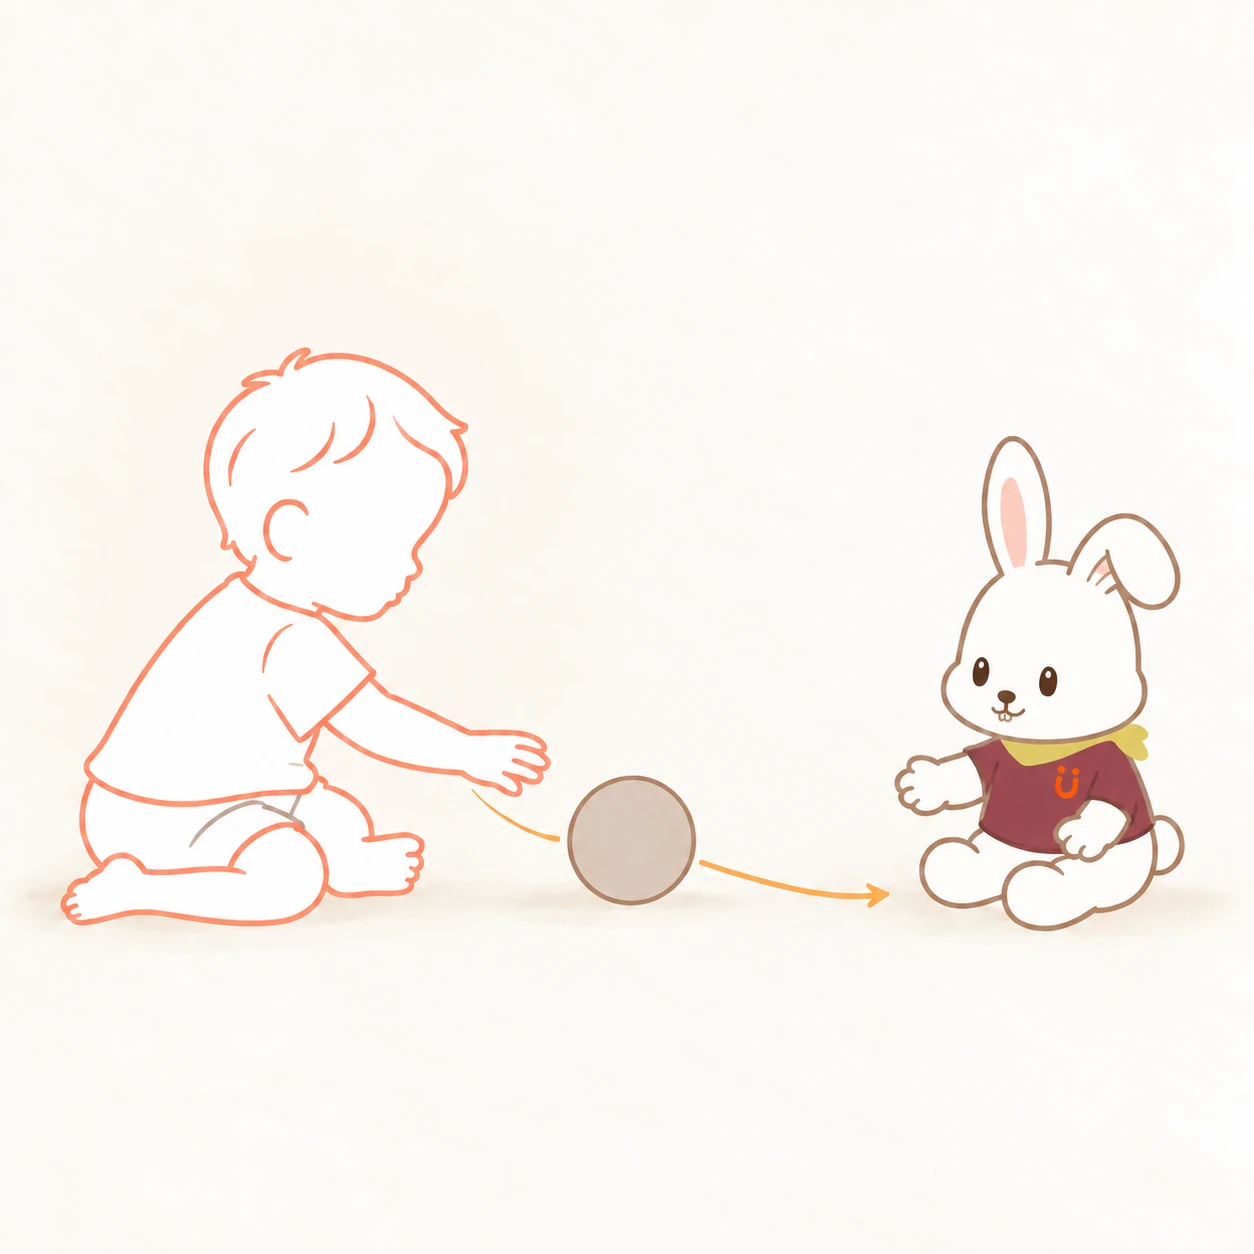
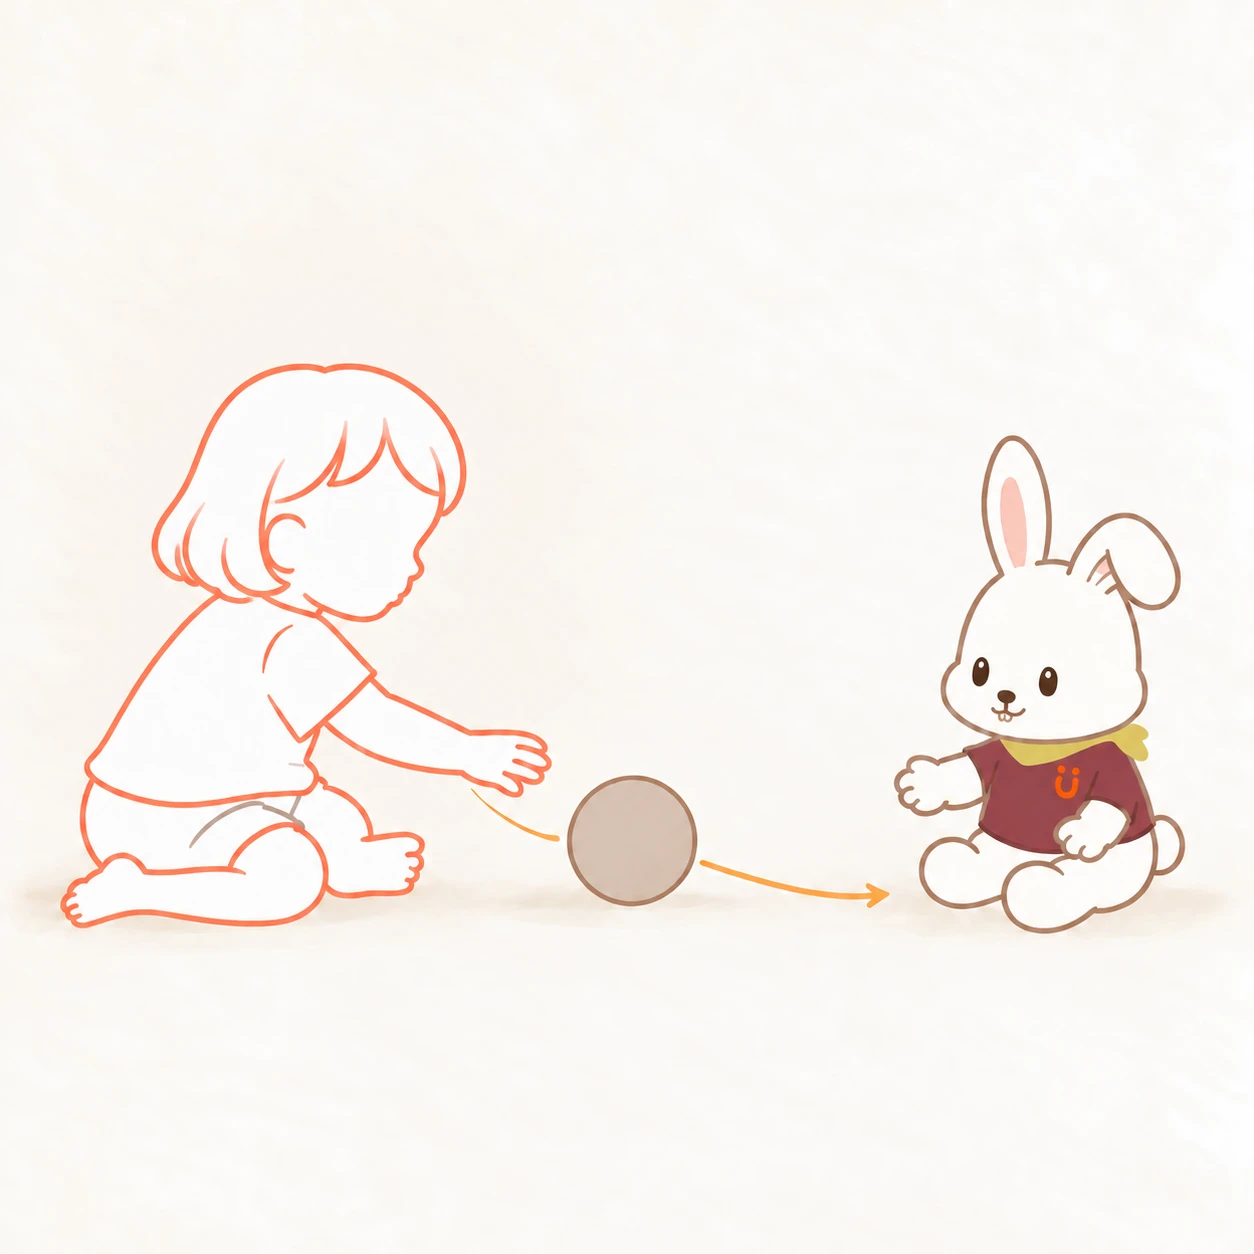
Sync revised Gen story illustrations

diff --git a/stories/hello-gen/index.html b/stories/hello-gen/index.html
@@ -4,19 +4,19 @@
 <section class="panel cover" id="cover" data-step="0"><div class="copy"><p class="eyebrow">HUGMAP · はじめましての絵本</p><h1>こんにちは、<br><em>ゲン</em>です。</h1><p class="lead">きみの「行きたい」、<br>いっしょに。</p><a class="start" href="#scene-hello">絵本をひらく <span>↓</span></a></div><figure><img src="assets/gen-child-leads.webp" alt="行きたい方を指さす子どもと、手をつないで歩くGen" width="1254" height="1254" fetchpriority="high"></figure></section>
 <section class="panel scene " id="scene-hello" data-step="1">
 <div class="copy"><p class="eyebrow" aria-label="1ページ">01</p><h2>からだを 動かして、<br>あそぶのが だいすき。</h2><p class="story-text">ころころ、ボールが きた！<br>きみと あそぶと、ぼくも わくわく。<br><br>「やってみたい」を 見つけると、<br>つい、はりきっちゃう。</p></div>
-<figure class="bubble-art "><span class="bubble speech" role="note" aria-label="ゲンの声：こんどは、ぼくから！">こんどは、ぼくから！</span><img src="assets/gen-ball-roll.webp" alt="座って子どもから転がってくるボールを迎えるGen" width="1254" height="1254" loading="lazy"></figure><a class="next" href="#scene-stairs" aria-label="次のページへ">↓</a></section>
+<figure class="bubble-art "><span class="bubble speech" role="note" aria-label="ゲンの声：こんどは、ぼくから！">こんどは、ぼくから！</span><img src="assets/gen-ball-roll.webp?art=child-bob" alt="座って子どもから転がってくるボールを迎えるGen" width="1254" height="1254" loading="lazy"></figure><a class="next" href="#scene-stairs" aria-label="次のページへ">↓</a></section>
 <section class="panel scene reverse" id="scene-stairs" data-step="2">
 <div class="copy"><p class="eyebrow" aria-label="2ページ">02</p><h2>あっ。<br>ぼくだけ、先に。</h2><p class="story-text">階段を おりるとき。<br>ぼくは 先に 進んだけれど、<br>きみは、足を 出そうとして いる。<br><br>いそがなくて いいよ。<br>どこが むずかしいかな。</p></div>
-<figure class="bubble-art "><span class="bubble thought" role="note" aria-label="ゲンの心の声：ぼく、はりきりすぎた。">ぼく、はりきりすぎた。</span><img src="assets/gen-stairs-observe.webp" alt="階段の下の段から、足を下ろそうとする子どもを見上げるGen" width="1254" height="1254" loading="lazy"></figure><a class="next" href="#scene-observe" aria-label="次のページへ">↓</a></section>
+<figure class="bubble-art "><span class="bubble thought" role="note" aria-label="ゲンの心の声：ぼく、はりきりすぎた。">ぼく、はりきりすぎた。</span><img src="assets/gen-stairs-observe.webp?art=child-proportions" alt="階段の下の段から、足を下ろそうとする子どもを見上げるGen" width="1254" height="1254" loading="lazy"></figure><a class="next" href="#scene-observe" aria-label="次のページへ">↓</a></section>
 <section class="panel scene " id="scene-observe" data-step="3">
 <div class="copy"><p class="eyebrow" aria-label="3ページ">03</p><h2>動きを 見て、<br>支え方を 考える。</h2><p class="story-text">片足を 動かすとき、<br>からだは どう 動くかな。<br><br>手すりの 高さ。段の 高さ。<br>どんな 支えが あると よいか、<br>おうちの人と いっしょに 考える。</p></div>
-<figure class="bubble-art observation-art"><div class="observation-thoughts"><span class="bubble thought" role="note" aria-label="ゲンの心の声：残った 足で、支えられるかな。">残った 足で、<br>支えられるかな。</span><span class="bubble thought" role="note" aria-label="ゲンの心の声：手すりは、つかみやすいかな。">手すりは、<br>つかみやすいかな。</span></div><img src="assets/gen-stairs-observe.webp" alt="手すりに手を添えて階段を下りる子どもと、下から見守るGen" width="1254" height="1254" loading="lazy"></figure><a class="next" href="#scene-support" aria-label="次のページへ">↓</a></section>
+<figure class="bubble-art observation-art"><div class="observation-thoughts"><span class="bubble thought" role="note" aria-label="ゲンの心の声：残った 足で、支えられるかな。">残った 足で、<br>支えられるかな。</span><span class="bubble thought" role="note" aria-label="ゲンの心の声：手すりは、つかみやすいかな。">手すりは、<br>つかみやすいかな。</span></div><img src="assets/gen-stairs-observe.webp?art=child-proportions" alt="手すりに手を添えて階段を下りる子どもと、下から見守るGen" width="1254" height="1254" loading="lazy"></figure><a class="next" href="#scene-support" aria-label="次のページへ">↓</a></section>
 <section class="panel scene reverse" id="scene-support" data-step="4">
 <div class="copy"><p class="eyebrow" aria-label="4ページ">04</p><h2>手を 添えたら、<br>どうかな。</h2><p class="story-text">きみが 手を 添えやすい 台を、<br>いっしょに 選ぼう。<br>ぼくも となりで、からだを くるり。<br><br>あ、きみも 向けたね。<br>この 支えが あると、どう？</p></div>
-<figure class="bubble-art "><span class="bubble thought" role="note" aria-label="ゲンの心の声：支えが あると、動きやすさは 変わるかな。">支えが あると、<br>動きやすさは 変わるかな。</span><img src="assets/gen-supported-twist.webp" alt="台に手を添えて身体をひねる子どもと、隣で同じ方向へ腕を伸ばすGen" width="1254" height="1254" loading="lazy"></figure><a class="next" href="#scene-rest" aria-label="次のページへ">↓</a></section>
+<figure class="bubble-art "><span class="bubble thought" role="note" aria-label="ゲンの心の声：支えが あると、動きやすさは 変わるかな。">支えが あると、<br>動きやすさは 変わるかな。</span><img src="assets/gen-supported-twist.webp?art=child-bob" alt="台に手を添えて身体をひねる子どもと、隣で同じ方向へ腕を伸ばすGen" width="1254" height="1254" loading="lazy"></figure><a class="next" href="#scene-rest" aria-label="次のページへ">↓</a></section>
 <section class="panel scene " id="scene-rest" data-step="5">
 <div class="copy"><p class="eyebrow" aria-label="5ページ">05</p><h2>ここで、ひとやすみ。</h2><p class="story-text">たくさん 動いたら、ひと息。<br>ぼくも、となりに 座ろう。<br><br>「もうすこし」より、<br>いまの きみの 様子を 見よう。</p></div>
-<figure class="bubble-art "><span class="bubble speech" role="note" aria-label="ゲンの声：つかれた？すこし 休もうか。">つかれた？<br>すこし 休もうか。</span><img src="assets/gen-rest.webp" alt="地面に座って背を寄せ、子どもと一緒に休むGen" width="1254" height="1254" loading="lazy"></figure><a class="next" href="#scene-together" aria-label="次のページへ">↓</a></section>
+<figure class="bubble-art "><span class="bubble speech" role="note" aria-label="ゲンの声：つかれた？すこし 休もうか。">つかれた？<br>すこし 休もうか。</span><img src="assets/gen-rest.webp?art=child-profile-legs" alt="地面に座って背を寄せ、子どもと一緒に休むGen" width="1254" height="1254" loading="lazy"></figure><a class="next" href="#scene-together" aria-label="次のページへ">↓</a></section>
 <section class="panel scene reverse" id="scene-together" data-step="6">
 <div class="copy"><p class="eyebrow" aria-label="6ページ">06</p><h2>きみの「行きたい」、<br>いっしょに。</h2><p class="story-text">きみが 指さす、その先へ。<br>今度は、きみの 歩幅で。<br><br>支えを 借りても、休みながらでも。<br>いっしょに 行ける 方法を、<br>ぼくは 見つけたい。</p></div>
 <figure class=" "><img src="assets/gen-child-leads.webp" alt="子どもが行きたい方を指さし、手をつないだGenが歩幅を合わせて歩く" width="1254" height="1254" loading="lazy"></figure><a class="next" href="#afterword" aria-label="次のページへ">↓</a></section>
